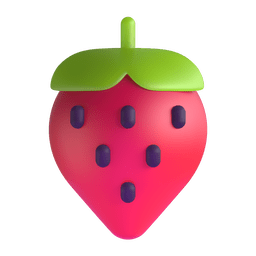
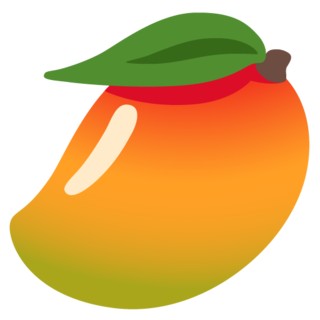
P for Parrot (replaces Papaya/strawberry confusion)

diff --git a/app.js b/app.js
@@ -20,7 +20,7 @@ const ALL_ITEMS = [
     { letter: "N", word: "Nose",     image: "images/nose.png", level: 3, vidStart: 109, vidEnd: 116 },
     // Level 4: O–R
     { letter: "O", word: "Orange",   image: "images/orange.png", level: 4, vidStart: 118, vidEnd: 125 },
-    { letter: "P", word: "Papaya",   image: "images/papaya.png", level: 4, vidStart: 125, vidEnd: 132 },
+    { letter: "P", word: "Parrot",   image: "images/parrot.png", level: 4, vidStart: 125, vidEnd: 132 },
     { letter: "Q", word: "Queen",    image: "images/queen.png", level: 4, vidStart: 132, vidEnd: 139 },
     { letter: "R", word: "Rabbit",   image: "images/rabbit.png", level: 4, vidStart: 139, vidEnd: 146 },
     // Level 5: S–V